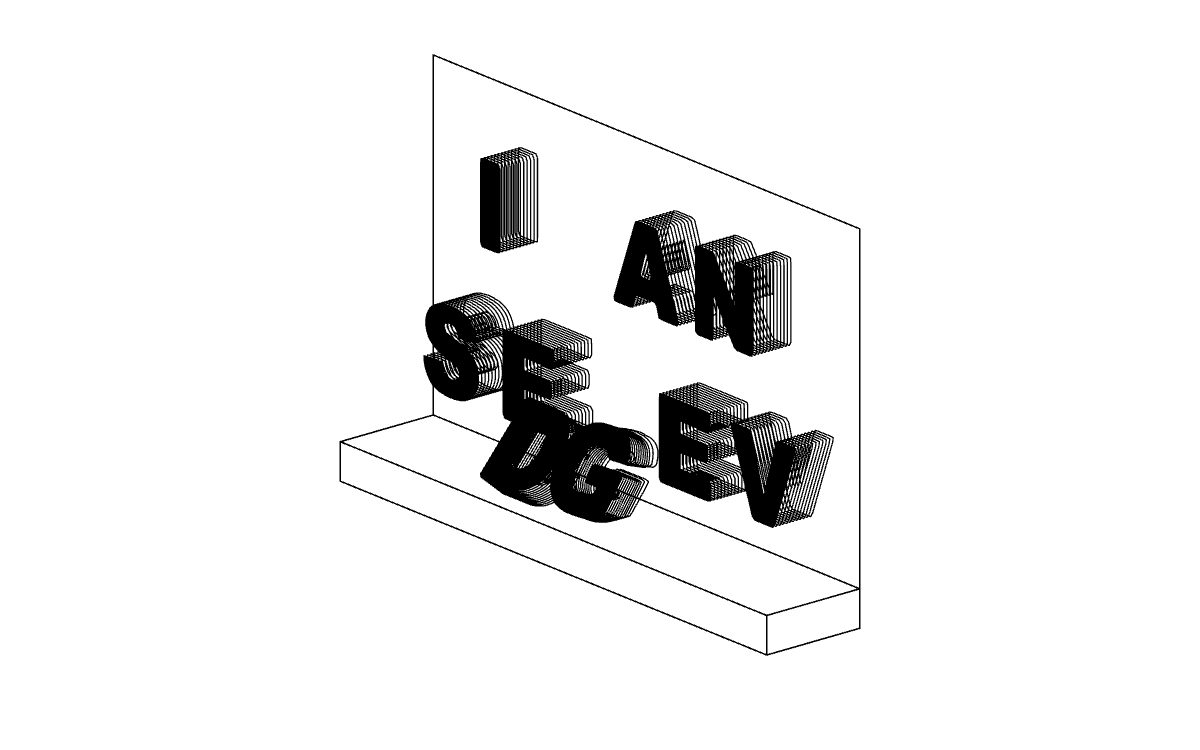
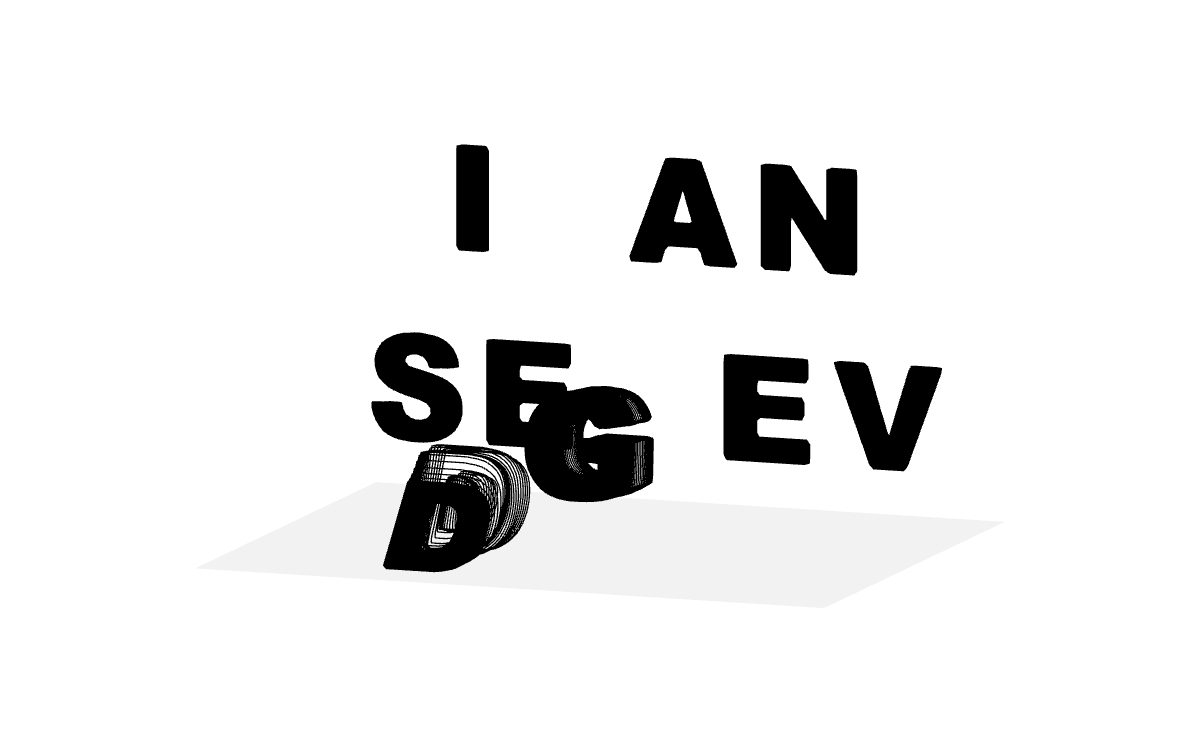
Slinky type: hidden coil at rest, ledge 10, tinted ledge, new camera, even letter spacing

diff --git a/src/posters/slinky-type.js b/src/posters/slinky-type.js
@@ -22,10 +22,10 @@ export function mount(stage) {
   const offs = [];
 
   const shared = { ...SHARED_DEFAULTS, ...POSTER_DEFAULTS, spring: 958, gravity: 23, bounce: 0.81, inertia: 0.3 };   // Idan's tuned Slinky: the rings, the wire, the contact, gravity and friction (14 Oct 2026)
-  const OWN = { coils: 12, ledge: 5, bump: 4.1, push: 9.5, pull: 1.3, pull2: 2.8 };                      // rings in a letter; how deep the ledge is; how far the first and the second bump carry the head (radii)
+  const OWN = { coils: 20, ledge: 10, bump: 2.9, push: 9.5, pull: 1.7, pull2: 2.8 };                      // rings in a letter; how deep the ledge is; how far the first and the second bump carry the head (radii)
   const DEFAULTS = { ...shared, ...OWN };
   const P = bindParams(shared, OWN);
-  const V = createView(stage, { yaw: 50, pitch: 20 }); V.setView('iso');          // Idan's camera for the Slinky (13 Oct 2026)
+  const V = createView(stage, { yaw: 20, pitch: 10 }); V.setView('iso');          // Idan's camera (14 Oct 2026)
 
   let W = 1, H = 1, R = 40, rw = 3, wallW = 1, wallH = 1, acc = 0;
   let hand = null, letters = [], cam = { x: 0, y: 0 }, pid = null, down = null, orbiting = false, pressed = null;
@@ -38,8 +38,8 @@ export function mount(stage) {
   function poseWall(L) {                                                            // the condensed stack, rings upright, the head ring (0) farthest from the wall and facing you
     const N = L.N, sp = (R * P.gap + rw) * 1.3;
     for (let i = 0; i < N; i++) { const k = N - 1 - i; L.ring.x[i] = rw + k * sp; L.ring.y[i] = L.Y; L.ring.a[i] = Math.PI / 2; L.ring.vx[i] = L.ring.vy[i] = L.ring.w[i] = 0; }
-    L.ring.n = N; L.ring.setCaps(P.capInertia);
-    L.state = 'wall'; L.clicks = 0; L.awake = false; L.q = 0; L.f = 0; L.snap = null; L.hand = null;
+    L.S0 = (N - 1) * sp; L.ring.n = N; L.ring.setCaps(P.capInertia);
+    L.state = 'wall'; L.open = 0; L.clicks = 0; L.awake = false; L.q = 0; L.f = 0; L.snap = null; L.hand = null;
   }
 
   // the backdrop and the ledge, centred and fitted on the screen whatever the view
@@ -52,14 +52,19 @@ export function mount(stage) {
   function fit() { const r = V.rot(), [, , w, h] = origin2(r), f = Math.min(0.92 * W / (w / r.z), 0.8 * H / (h / r.z)) / (r.z / V.zoomMul); V.zoomMul += (f - V.zoomMul) * 0.15; }
   function layout() {
     W = stage.W; H = stage.H;
-    const portrait = W / H < 0.85, rows = portrait ? ['IDAN', 'SE', 'GEV'] : ['IDAN', 'SEGEV'], colK = 2.6, rowK = 3.7, maxRow = Math.max(...rows.map((r) => r.length));
-    R = Math.min(W * 0.78 / (maxRow * colK), H * 0.62 / (rows.length * rowK + 1.6), Math.min(W, H) * 0.11 * 1.6);
+    const portrait = W / H < 0.85, rows = portrait ? ['IDAN', 'SE', 'GEV'] : ['IDAN', 'SEGEV'], rowK = 3.7;
+    const ext = (ch) => { let lo = 1e9, hi = -1e9; for (const loop of ringShape(ch) || []) for (const pt of loop) { lo = Math.min(lo, pt[1]); hi = Math.max(hi, pt[1]); } return lo > hi ? [-1, 1] : [lo, hi]; };   // a letter's width, across the wall, in radii
+    const GAP = 0.5;                                                                                     // the same space between every pair of letters (not the same pitch): even colour
+    const rowW = (row) => [...row].reduce((a, ch) => a + ext(ch)[1] - ext(ch)[0], 0) + GAP * (row.length - 1), maxW = Math.max(...rows.map(rowW));
+    R = Math.min(W * 0.78 / maxW, H * 0.62 / (rows.length * rowK + 1.6), Math.min(W, H) * 0.11 * 1.6);
     rw = Math.max(2, R * P.wire * 0.5);
-    wallW = (maxRow * colK + 1.2) * R / 2; wallH = (rows.length * rowK + 0.8) * R;
+    wallW = (maxW + 1.2) * R / 2; wallH = (rows.length * rowK + 0.8) * R;
     letters = [];
     rows.forEach((row, k) => {
+      const gap = GAP; let x = -rowW(row) / 2;
       [...row].forEach((ch, j) => {
-        const X = (j - (row.length - 1) / 2) * R * colK, N = Math.round(P.coils), L = { ch, X, Y: R * 1.3 + (rows.length - 1 - k) * R * rowK + R * 0.9, ring: createRings(N + 2), N, shape: ringShape(ch), hand: null, awake: false };
+        const [lo, hi] = ext(ch), X = (x - lo) * R, N = Math.round(P.coils), L = { ch, X, Y: R * 1.3 + (rows.length - 1 - k) * R * rowK + R * 0.9, ring: createRings(N + 2), N, shape: ringShape(ch), hand: null, awake: false };
+        x += hi - lo + gap;
         poseWall(L); letters.push(L);
       });
     });
@@ -105,17 +110,16 @@ export function mount(stage) {
     ctx.fillStyle = paper; ctx.fillRect(0, 0, W, H);
     const r = V.rot(), [ox, oy] = origin2(r), T = R * 0.9, E = edge();
     ctx.lineJoin = 'round'; ctx.lineCap = 'round'; ctx.strokeStyle = ink; ctx.fillStyle = paper; ctx.lineWidth = Math.max(1.2, R * 0.03);
-    const quad = (pts) => { ctx.beginPath(); pts.forEach((q, i) => { const s2 = V.project(q, r, ox, oy); i ? ctx.lineTo(s2[0], s2[1]) : ctx.moveTo(s2[0], s2[1]); }); ctx.closePath(); ctx.fill(); ctx.stroke(); };
-    quad([[-wallW, 0, 0], [wallW, 0, 0], [wallW, wallH, 0], [-wallW, wallH, 0]]);                                   // the backdrop, upright
-    quad([[-wallW, 0, 0], [wallW, 0, 0], [wallW, 0, -E], [-wallW, 0, -E]]);                                          // the ledge: its top,
-    quad([[-wallW, 0, -E], [wallW, 0, -E], [wallW, -T, -E], [-wallW, -T, -E]]);                                     // its front,
-    quad([[wallW, 0, 0], [wallW, 0, -E], [wallW, -T, -E], [wallW, -T, 0]]);                                          // and its end
+    ctx.fillStyle = dark ? 'rgba(255,255,255,0.05)' : 'rgba(0,0,0,0.05)';                                          // the ledge's top: a solid 5% tint; the wall and the ledge's sides are not drawn
+    ctx.beginPath(); [[-wallW, 0, 0], [wallW, 0, 0], [wallW, 0, -E], [-wallW, 0, -E]].forEach((q, i) => { const s2 = V.project(q, r, ox, oy); i ? ctx.lineTo(s2[0], s2[1]) : ctx.moveTo(s2[0], s2[1]); }); ctx.closePath(); ctx.fill();
+    ctx.fillStyle = paper;
     ctx.lineWidth = Math.max(1.3, R * P.wire);
     const items = [];
     for (const L of letters) for (let i = 0; i < L.ring.n; i++) items.push({ L, i, z: V.project(wp(L, L.ring.x[i], L.ring.y[i], 0), r, 0, 0)[2] });
     items.sort((a, b) => a.z - b.z);
+    for (const L of letters) L.open += ((L.awake || hand?.L === L ? 1 : 0) - L.open) * 0.22;   // pressed and held: a letter at rest hides its coil behind the cap; the moment it moves the coil shows
     for (const { L, i } of items) {
-      const a = L.ring.a[i], ux = Math.cos(a), uy = Math.sin(a), cx = L.ring.x[i], cy = L.ring.y[i];
+      const a = L.ring.a[i], ux = Math.cos(a), uy = Math.sin(a), cx = L.ring.x[0] + (L.ring.x[i] - L.ring.x[0]) * L.open, cy = L.ring.y[0] + (L.ring.y[i] - L.ring.y[0]) * L.open;
       ctx.beginPath();
       for (const loop of L.shape) {
         for (let k = 0; k <= loop.length; k++) { const pt = loop[k % loop.length], q = V.project(wp(L, cx + ux * pt[0] * R, cy + uy * pt[0] * R, pt[1] * R), r, ox, oy); k ? ctx.lineTo(q[0], q[1]) : ctx.moveTo(q[0], q[1]); }
@@ -198,7 +202,7 @@ export function mount(stage) {
     tune: {
       title: 'Slinky type', values: P, defaults: DEFAULTS,
       groups: [
-        { name: 'Scene', items: [Ctl('ledge', 'How deep the ledge is (radii, re-forms)', 1.2, 5, 0.1), Ctl('bump', 'How hard the first bump is (radii / s)', 0.5, 8, 0.1), Ctl('pull', 'How far the first bump pulls the cap ahead (radii)', 0, 4, 0.1), Ctl('pull2', 'How far the second bump pulls it (radii)', 0, 5, 0.1), Ctl('push', 'How hard the second bump is (radii / s)', 3, 18, 0.1), Ctl('coils', 'Rings in a letter (re-forms)', 4, 40, 1), Ctl('gap', 'Closest the coils get (re-forms)', 0.02, 0.3, 0.005), Ctl('wire', 'Wire thickness', 0.02, 0.2, 0.005)] },
+        { name: 'Scene', items: [Ctl('ledge', 'How deep the ledge is (radii, re-forms)', 1.2, 14, 0.1), Ctl('bump', 'How hard the first bump is (radii / s)', 0.5, 8, 0.1), Ctl('pull', 'How far the first bump pulls the cap ahead (radii)', 0, 4, 0.1), Ctl('pull2', 'How far the second bump pulls it (radii)', 0, 5, 0.1), Ctl('push', 'How hard the second bump is (radii / s)', 3, 18, 0.1), Ctl('coils', 'Rings in a letter (re-forms)', 4, 40, 1), Ctl('gap', 'Closest the coils get (re-forms)', 0.02, 0.3, 0.005), Ctl('wire', 'Wire thickness', 0.02, 0.2, 0.005)] },
         { name: 'Rings', items: [Ctl('lean', 'Most a ring may lean off the path (deg)', 15, 85, 1), Ctl('leanK', 'How hard that limit is held', 0.05, 3, 0.05), Ctl('square', 'Rings square to the path', 0, 2, 0.05), Ctl('spring', 'Wire stiffness', 5, 4000, 1), Ctl('inertia', 'Ring inertia', 0.1, 2, 0.05)] },
         { name: 'World', items: [Ctl('gravity', 'Gravity', 4, 60, 1), Ctl('grip', 'Friction', 0, 1.5, 0.05), Ctl('bounce', 'Bounce', 0.05, 0.95, 0.01), Ctl('damping', 'Air drag', 0, 4, 0.05)] },
       ],
